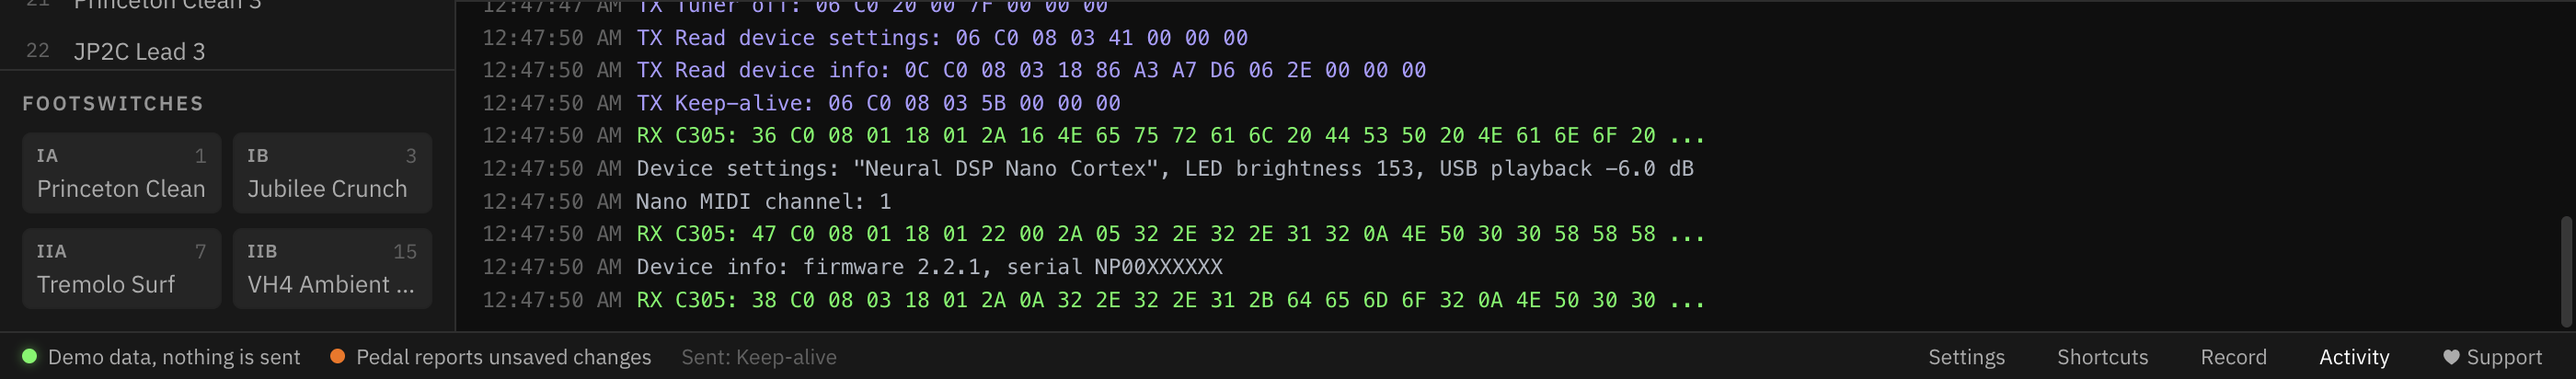
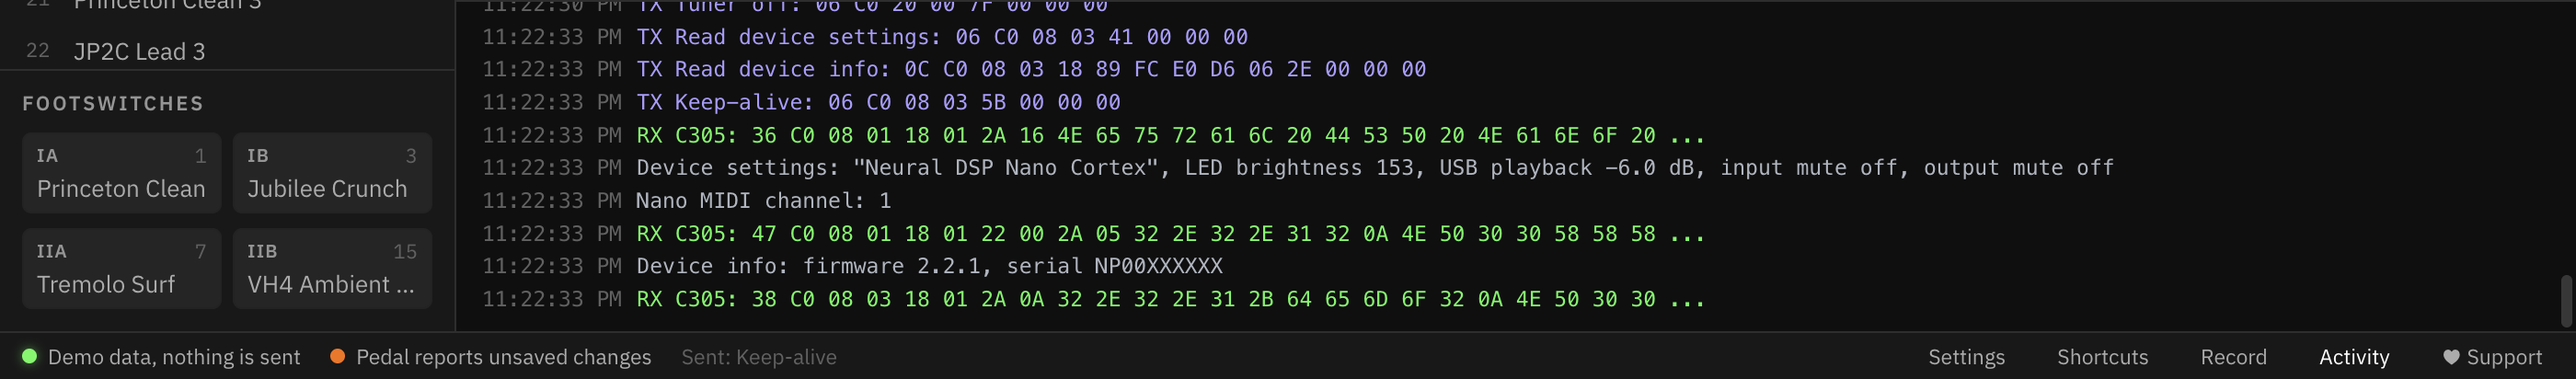
docs: retake screenshots that show an outdated layout
Retaken with npm run docs:screenshots (demo data); images whose only
differences were focus rings, carets or a 1-2 px crop were left as they were.

- cloud-toolbar: IRs, Live Preview and the IR: Off indicator beside Send to Nano Cortex
- header, header-dirty, hero: the Mute button
- settings-device: the Monitoring section (Mute Input, Mute Outputs 1L/2R)
- activity: the device-settings line now reports the input and output mutes
- inspector-cab: the From the library section (search, factory cabs, your IRs)

scripts/docs-screenshots.js now waits for the pedal library before the Cab / IR
shot (it showed "Reading the pedal library…") and parks the page's pointer so a
hovered row does not end up in the hero image. Alt text in the manual updated to
match.

diff --git a/scripts/docs-screenshots.js b/scripts/docs-screenshots.js
@@ -97,6 +97,8 @@ async function toolbarShots() {
 
 async function run() {
   await sleep(800); await hideToast();
+  // The real pointer may sit over the new window (a hovered preset row in the first shot); park the page's own at an empty spot.
+  wc.sendInputEvent({ type: 'mouseMove', x: 600, y: 760 }); await sleep(100); await frame();
   await shot('_editor-full');
   await shot('header', '.head', 0);
   await shot('sidebar', '.side', 0);
@@ -113,7 +115,10 @@ async function run() {
 
   // stages
   await key('1'); await shot('inspector-gate', '#inspector', 0);
-  await key('5'); await shot('inspector-cab', '#inspector', 0);
+  // Cab / IR: wait for the pedal library ("From the library" reads "Reading the pedal library…" until it arrives).
+  await key('5');
+  await js('requestLibraryContent(); new Promise(r => { const t0 = Date.now(); const f = () => (state.library.loaded || Date.now() - t0 > 6000) ? r() : setTimeout(f, 100); f(); })'); await sleep(300);
+  await shot('inspector-cab', '#inspector', 0);
   await click('[data-stage="post2"] .model'); await shot('inspector-fx', '#inspector', 0);
   await key('m'); await sleep(100);
   await shot('effect-picker', ['.pop', '[data-stage="post2"]'], 12);

diff --git a/docs/MANUAL.md b/docs/MANUAL.md
@@ -120,7 +120,7 @@ remembered pedal.
 
 **Header.**
 
-![The header: logo, preset number and name, then Tuner, Metronome, Rename, Save as…, Refresh, Exit demo and Save](images/header.png)
+![The header: logo, preset number and name, then Tuner, Mute, Metronome, Rename, Save as…, Refresh, Exit demo and Save](images/header.png)
 
 From left to right: the current preset's number and name; **Tuner**; **Mute** (the pedal's guitar input, see
 [Monitoring](#monitoring); red while muted); **Metronome**; **Rename**; **Save as…**; **Refresh** (re-reads everything
@@ -275,7 +275,7 @@ Right-click an item for **Preview** and **Load into slot…**; your own IRs also
 from the pedal after you confirm (there is no undo; the dialog says if one of the five slots holds that IR).
 
 
-![The Cab / IR inspector: tone knobs, mic choices and positions 1–6, and the five cab slots](images/inspector-cab.png)
+![The Cab / IR inspector: tone knobs, mic choices and positions 1–6, the five cab slots, and From the library with a search box, factory cabs and your IRs, each with a ▶ button](images/inspector-cab.png)
 
 ## 6. Footswitches
 
@@ -391,7 +391,7 @@ The **Cortex Cloud** tab (⌘2) shows Neural DSP's own Cortex Cloud website insi
 **Sending a capture to the pedal.** Open a capture's page on the site (for example from Discover → Neural Captures).
 **Send to Nano Cortex** in the toolbar lights up:
 
-![Our toolbar on the Cortex Cloud tab: Editor and Cortex Cloud tabs, back, forward, reload, Home and the highlighted Send to Nano Cortex button](images/cloud-toolbar.png)
+![Our toolbar on the Cortex Cloud tab: Editor and Cortex Cloud tabs, back, forward, reload, Home, IRs, the highlighted Send to Nano Cortex and Live Preview buttons, the IR: Off indicator and Sign out](images/cloud-toolbar.png)
 
 Click it. The app fetches the capture with your Cortex Cloud login and switches to the Editor, which asks you to
 confirm:
@@ -453,7 +453,7 @@ closes the Activity drawer. The log file (**Help → Show Log File**) is written
 
 **Device** reads the pedal's own settings each time you open it.
 
-![Settings, Device tab: name, firmware and serial, LED brightness and USB playback volume](images/settings-device.png)
+![Settings, Device tab: name, firmware and serial, LED brightness and USB playback volume, and Monitoring with the Mute Input and Mute Outputs 1L/2R switches](images/settings-device.png)
 
 - **About**: the pedal's name, firmware and serial number (and, with Developer tools on, the device hash).
 - **LED brightness** (the manual's default is 60 %) and **USB playback volume** (audio from the computer over USB,
